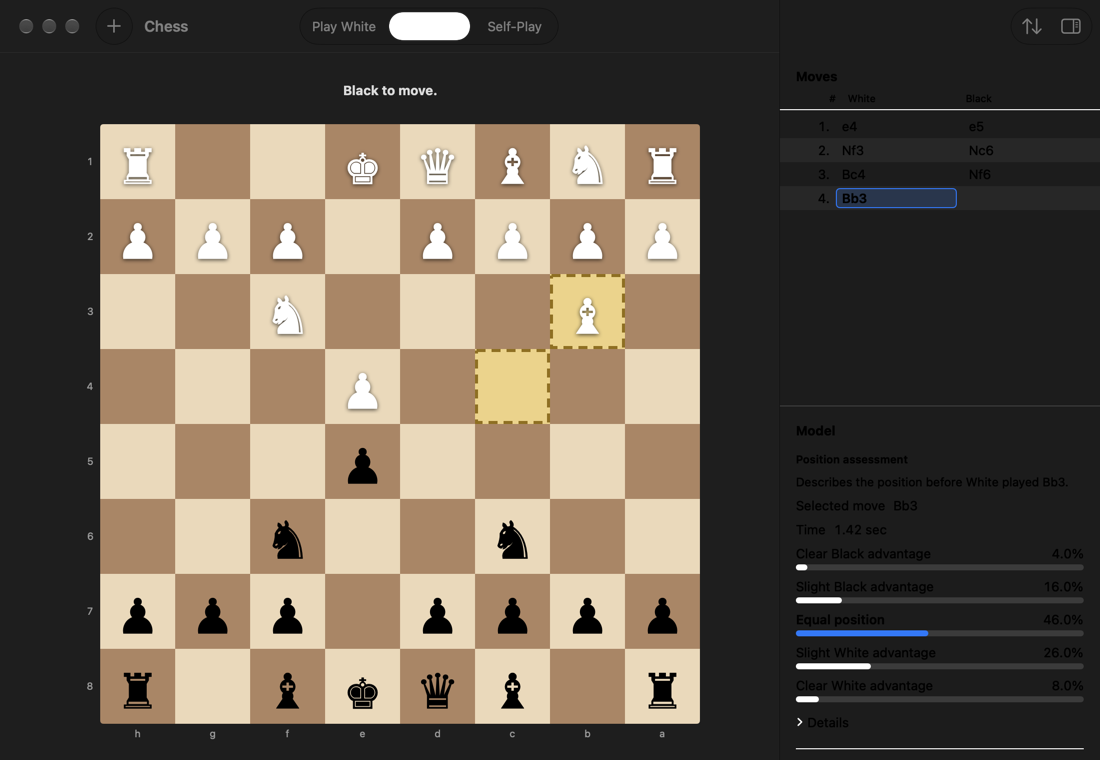
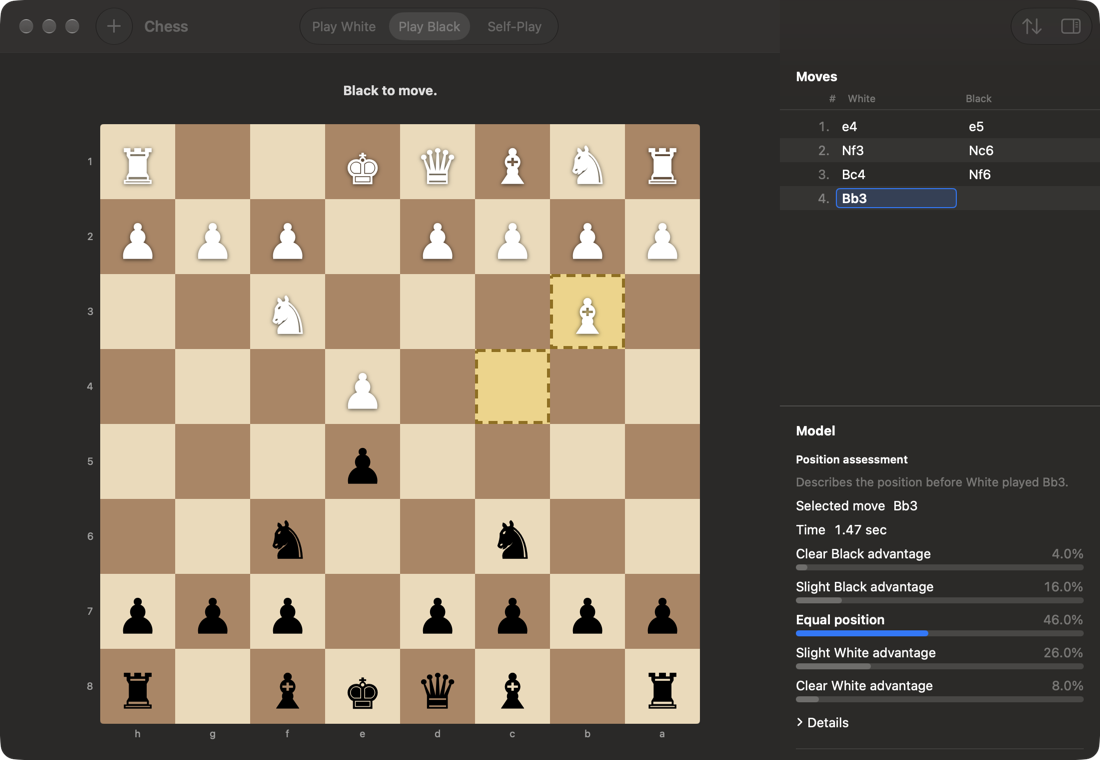
Capture Chess snapshots with ScreenCaptureKit
cacheDisplay skips vibrancy and Liquid Glass effects, so the README screenshot showed black inspector text on a dark background and an empty selected segment. Capture the composited window instead and replace the screenshot.

diff --git a/Examples/Chess/Chess/ChessDebugAutomation.swift b/Examples/Chess/Chess/ChessDebugAutomation.swift
@@ -1,5 +1,6 @@
 #if DEBUG
 import AppKit
+import ScreenCaptureKit
 
 /// Debug-only launch options for inspecting the interface without system permissions.
 ///
@@ -53,7 +54,7 @@ enum ChessDebugAutomation {
         guard let snapshot else { return }
         try? await Task.sleep(for: .seconds(1))
         let directory = FileManager.default.temporaryDirectory
-        capture(window, to: directory.appending(path: "\(snapshot).png"))
+        await capture(window, to: directory.appending(path: "\(snapshot).png"))
         try? describeMenus().write(
             to: directory.appending(path: "\(snapshot)-menus.txt"),
             atomically: true,
@@ -115,11 +116,26 @@ enum ChessDebugAutomation {
         "a": 0, "b": 11, "f": 3, "i": 34, "n": 45, "r": 15,
     ]
 
-    private static func capture(_ window: NSWindow, to url: URL) {
-        guard let view = window.contentView?.superview,
-              let representation = view.bitmapImageRepForCachingDisplay(in: view.bounds)
+    /// Captures the window as the window server composites it.
+    ///
+    /// `cacheDisplay` skips vibrancy and Liquid Glass effects,
+    /// so it draws inspector text in black and omits the selected segment's label.
+    /// The current process can capture its own windows without Screen Recording permission.
+    private static func capture(_ window: NSWindow, to url: URL) async {
+        guard let content = try? await SCShareableContent.currentProcess,
+              let target = content.windows.first(where: { $0.windowID == CGWindowID(window.windowNumber) })
         else { return }
-        view.cacheDisplay(in: view.bounds, to: representation)
+        let filter = SCContentFilter(desktopIndependentWindow: target)
+        let configuration = SCStreamConfiguration()
+        configuration.width = Int(filter.contentRect.width * CGFloat(filter.pointPixelScale))
+        configuration.height = Int(filter.contentRect.height * CGFloat(filter.pointPixelScale))
+        configuration.showsCursor = false
+        configuration.ignoreShadowsSingleWindow = true
+        guard let image = try? await SCScreenshotManager.captureImage(
+            contentFilter: filter,
+            configuration: configuration
+        ) else { return }
+        let representation = NSBitmapImageRep(cgImage: image)
         try? representation.representation(using: .png, properties: [:])?.write(to: url)
     }
 
